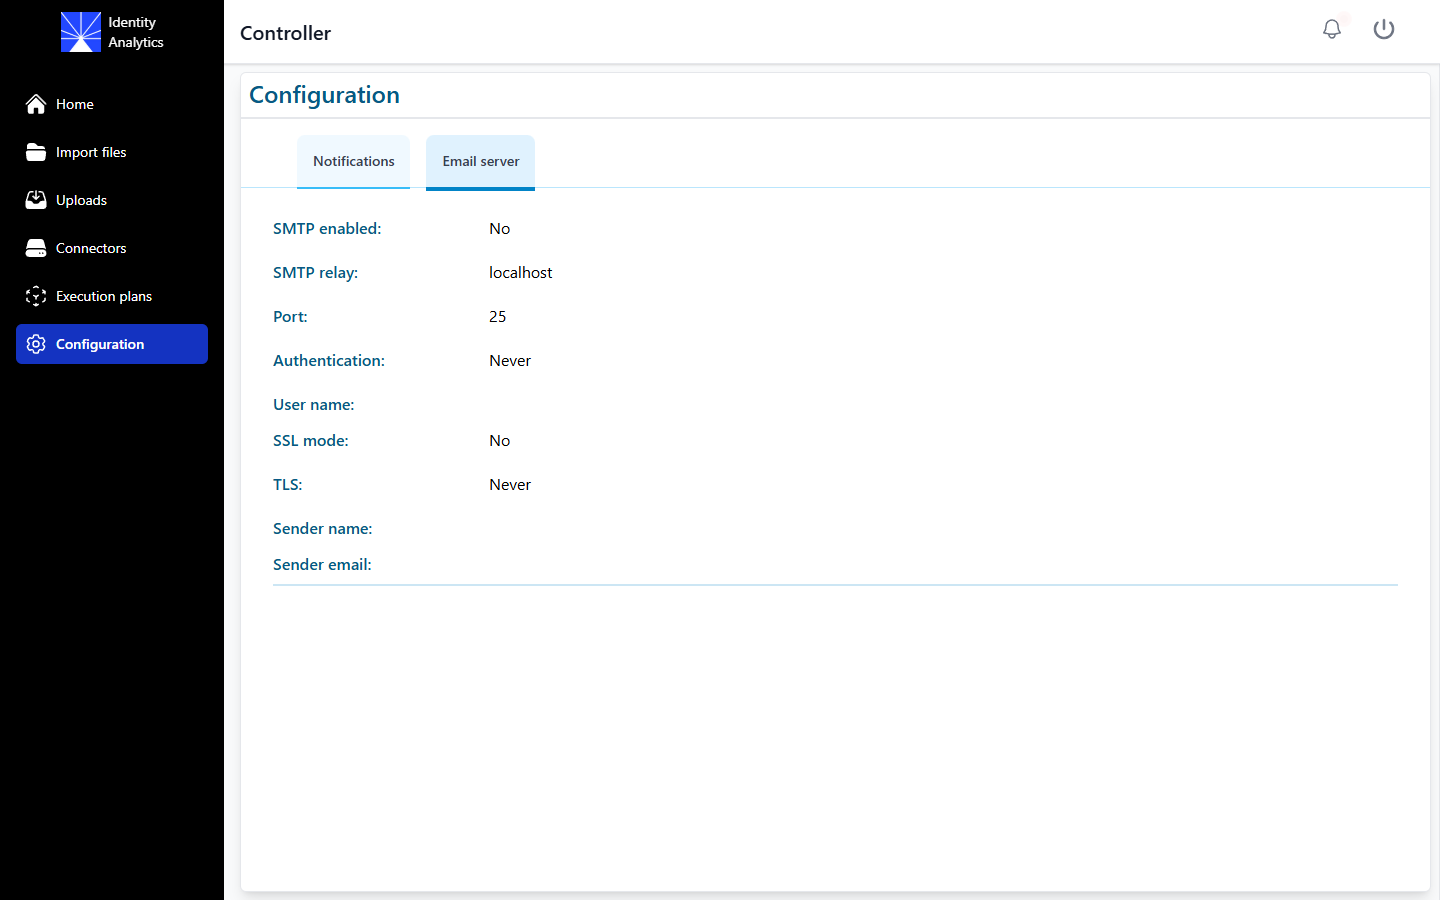
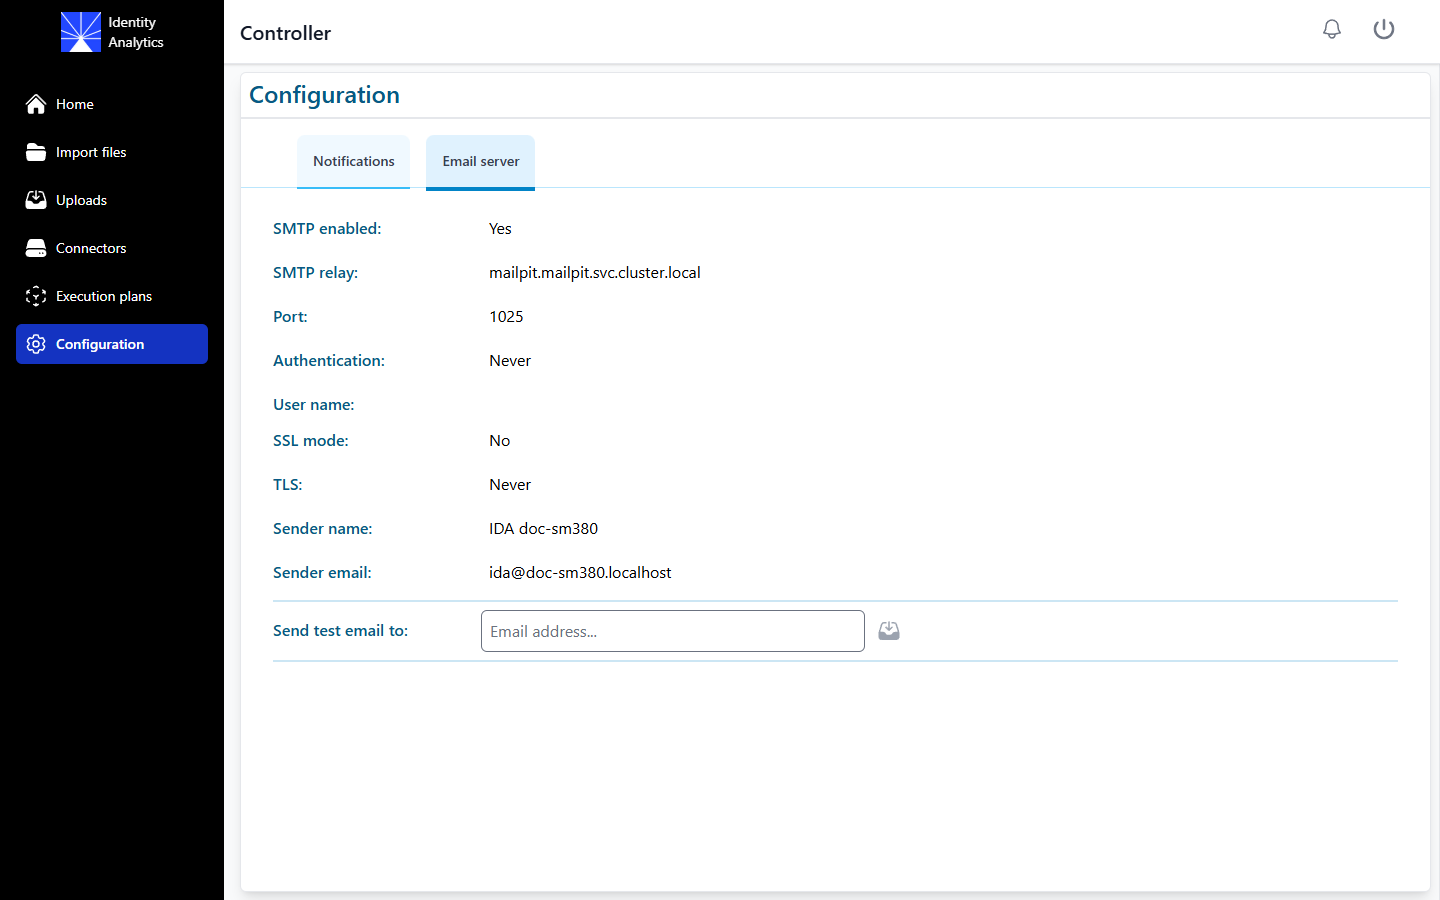
SQ-2141: Controller: test email of the Email server tab, new screenshot
The previous screenshot had SMTP disabled, so it did not show the Send test email to field.

diff --git a/documentation/igrc-platform/self-managed/09-components/controller.md b/documentation/igrc-platform/self-managed/09-components/controller.md
@@ -97,4 +97,4 @@ Enter the email addresses to notify when an execution plan or a purge succeeds, 
 
 ![Email server configuration](images/controller-config-email-server.png "Email server configuration")
 
-This tab displays the SMTP settings of the instance. It is read only: the SMTP settings come from the `smtp.*` values of the Helm chart. To change them, update your values file and run `helm upgrade`. See [Which setting wins](../06-configuration/01-config-ui.md#which-setting-wins).
+This tab displays the SMTP settings of the instance. It is read only: the SMTP settings come from the `smtp.*` values of the Helm chart. To change them, update your values file and run `helm upgrade`. See [Which setting wins](../06-configuration/01-config-ui.md#which-setting-wins). When SMTP is enabled, enter an address in **Send test email to** and click the send icon to check the SMTP settings.
